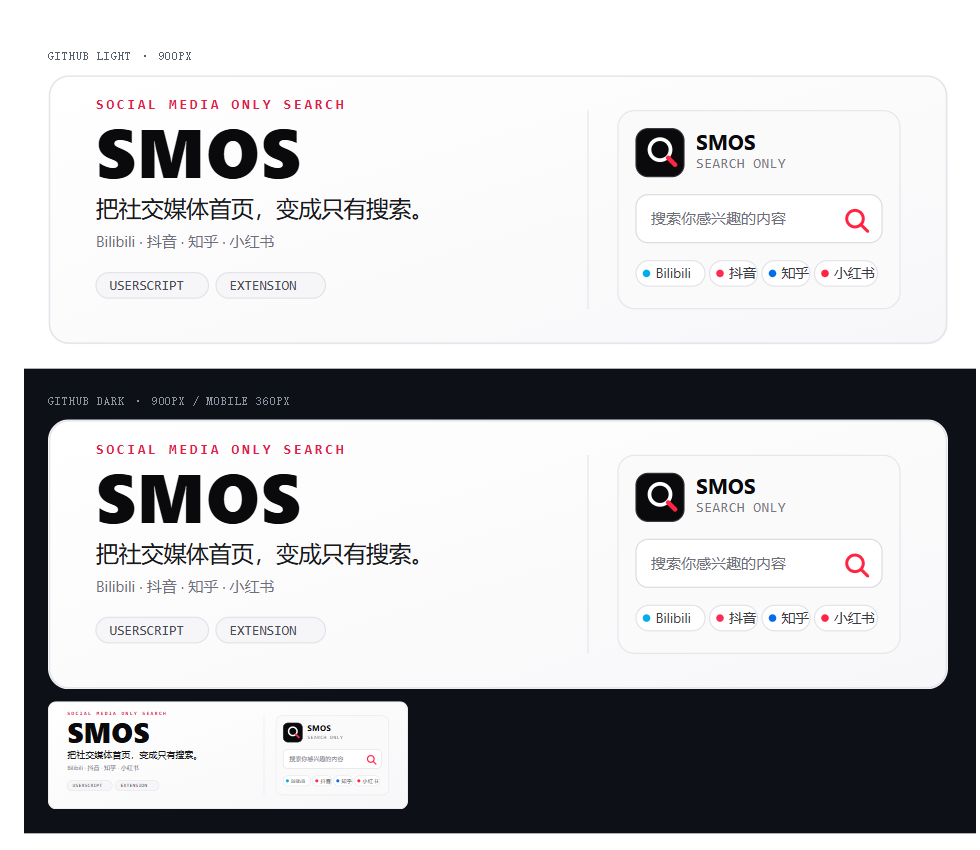
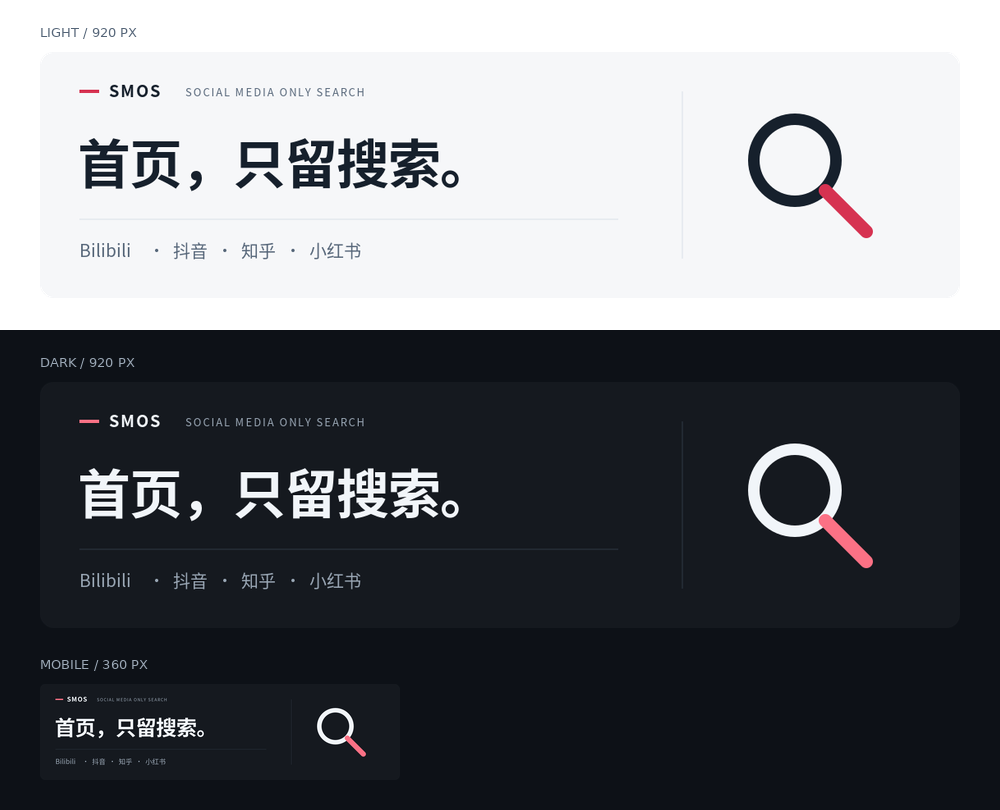
docs: 重做 README 首图与安装优先的页面排版

diff --git a/assets/readme/preview.html b/assets/readme/preview.html
@@ -22,8 +22,8 @@
   </section>
   <section class="dark">
     <p class="label">GitHub dark · 900px / mobile 360px</p>
-    <img src="hero.svg" alt="SMOS hero preview on dark background">
-    <img class="mobile" src="hero.svg" alt="SMOS hero preview at mobile width">
+    <img src="hero-dark.svg" alt="SMOS dark hero preview on dark background">
+    <img class="mobile" src="hero-dark.svg" alt="SMOS hero preview at mobile width">
   </section>
 </body>
 </html>

diff --git a/README.md b/README.md
@@ -1,98 +1,91 @@
-<p align="center">
-  <img src="./assets/readme/hero.svg" width="100%" alt="SMOS：把 Bilibili、抖音、知乎、小红书的首页变成仅搜索界面">
-</p>
+<picture>
+  <source media="(prefers-color-scheme: dark)" srcset="./assets/readme/hero-dark.svg">
+  <img src="./assets/readme/hero.svg" width="1120" alt="SMOS — 首页，只留搜索。支持 Bilibili、抖音、知乎、小红书。">
+</picture>
 
-# SMOS   
+# SMOS
 
-SMOS（Social Media Only Search）把社交媒体首页变成“仅搜索”界面，提供油猴脚本和 Manifest V3 浏览器扩展两种安装方式。
+**Social Media Only Search** · 隐藏社交媒体首页的推荐流，保留导航与搜索。提供油猴脚本和 Chrome / Edge 扩展两种安装方式。
 
-## Preview
+[安装 / Install](#安装--install) · [支持范围 / Support](#支持范围--support) · [页面预览 / Preview](#页面预览--preview) · [开发 / Development](#开发--development)
 
-以下截图来自加载 SMOS 扩展后的实际页面，点击图片可查看大图。
+## 安装 / Install
 
-<table width="100%">
+选择一种方式即可。**不要在同一网站同时启用 SMOS 扩展和油猴脚本**，以免重复注入。
+
+### 油猴脚本
+
+1. 安装 [Tampermonkey](https://www.tampermonkey.net/) 或 [Violentmonkey](https://violentmonkey.github.io/)。
+2. 打开 **[安装 SMOS 总脚本](https://raw.githubusercontent.com/mintonight/smos/main/smos.user.js)**，在脚本管理器中确认安装。
+3. 访问下方支持的页面。总脚本会按当前网站启用对应功能；平台开关在脚本管理器的菜单中。
+
+Raw 链接不可用时，可用 [jsDelivr 镜像](https://cdn.jsdelivr.net/gh/mintonight/smos/smos.user.js)（更新可能有缓存延迟）。
+
+### Chrome / Edge 扩展
+
+1. 打开 **[最新发布 / Latest release](https://github.com/mintonight/smos/releases/latest)**，下载 Assets 中的 `smos-extension-*.zip` 并解压。
+2. 打开 `chrome://extensions`（Edge 为 `edge://extensions`），开启「开发者模式」。
+3. 点击「加载已解压的扩展程序」，选择解压后的目录。点击工具栏的 SMOS 图标设置平台开关。
+
+普通安装建议使用 ZIP；Chrome 对直接安装 CRX 有限制。扩展暂未适配 Firefox。参见 [完整扩展说明](./extension/README.md)。
+
+<details>
+<summary>只需要一个平台？安装独立脚本</summary>
+
+同样需要先安装脚本管理器。不要和总脚本同时启用。
+
+| 平台 | 安装 | 备用镜像 | 说明 |
+| --- | --- | --- | --- |
+| Bilibili | [Raw](https://raw.githubusercontent.com/mintonight/smos/main/smos-bilibili/smos-bilibili.user.js) | [jsDelivr](https://cdn.jsdelivr.net/gh/mintonight/smos/smos-bilibili/smos-bilibili.user.js) | [平台说明](./smos-bilibili) |
+| 抖音 / Douyin | [Raw](https://raw.githubusercontent.com/mintonight/smos/main/smos-douyin/smos-douyin.user.js) | [jsDelivr](https://cdn.jsdelivr.net/gh/mintonight/smos/smos-douyin/smos-douyin.user.js) | [平台说明](./smos-douyin) |
+| 知乎 / Zhihu | [Raw](https://raw.githubusercontent.com/mintonight/smos/main/smos-zhihu/smos-zhihu.user.js) | [jsDelivr](https://cdn.jsdelivr.net/gh/mintonight/smos/smos-zhihu/smos-zhihu.user.js) | [平台说明](./smos-zhihu) |
+| 小红书 / Xiaohongshu | [Raw](https://raw.githubusercontent.com/mintonight/smos/main/smos-xiaohongshu/smos-xiaohongshu.user.js) | [jsDelivr](https://cdn.jsdelivr.net/gh/mintonight/smos/smos-xiaohongshu/smos-xiaohongshu.user.js) | [平台说明](./smos-xiaohongshu) |
+
+</details>
+
+## 支持范围 / Support
+
+| 平台 | 生效页面 | 页面变化 |
+| --- | --- | --- |
+| Bilibili | 首页 `/`、`/index.html`；视频、番剧等播放页¹ | 首页仅搜索；播放页可隐藏相关推荐、设置播放器模式 |
+| 抖音 / Douyin | 精选 `/jingxuan` 及其子路径；推荐首页 `/?recommend=*` | 隐藏内容流、保留搜索；目标页暂停并静音音视频 |
+| 知乎 / Zhihu | 首页 `/`、发现 `/explore`、热榜 `/hot` | 保留导航，内容区替换为搜索框 |
+| 小红书 / Xiaohongshu | 首页 `/`、探索 `/explore` | 保留导航，内容区替换为搜索框 |
+
+¹ Bilibili 播放页覆盖 `/video/*`、`/bangumi/play/*`、`/list/*`、`/medialist/play/*`、`/cheese/*`、`/festival/*`。
+
+- 搜索仍使用平台原生结果页，不替换搜索结果。
+- 抖音、知乎、小红书离开目标路由后移除搜索界面，返回时恢复；抖音的媒体限制也只在目标页生效。
+- 抖音、小红书适配亮色 / 深色主题；知乎使用浅色界面。
+- Bilibili 与抖音的自定义背景设置仅在油猴版提供，扩展版暂不支持。
+
+## 页面预览 / Preview
+
+以下为已有的扩展实测截图，并非示意图。点击查看原图；网站本身的导航可能随更新变化。
+
+<table>
   <tr>
-    <td align="center" width="50%">
-      <a href="./assets/readme/preview-bilibili.png"><img src="./assets/readme/preview-bilibili.png" alt="SMOS Bilibili 首页搜索界面" width="100%"></a>
-      <br>
-      <sub><b>Bilibili</b></sub>
-    </td>
-    <td align="center" width="50%">
-      <a href="./assets/readme/preview-douyin.png"><img src="./assets/readme/preview-douyin.png" alt="SMOS 抖音精选页搜索界面" width="100%"></a>
-      <br>
-      <sub><b>抖音</b></sub>
-    </td>
+    <td width="50%"><b>Bilibili · 首页</b><br><a href="./assets/readme/preview-bilibili.png"><img src="./assets/readme/preview-bilibili.png" alt="加载 SMOS 扩展后的 Bilibili 首页：原生顶栏下方只保留搜索框" width="100%"></a></td>
+    <td width="50%"><b>抖音 · 精选</b><br><a href="./assets/readme/preview-douyin.png"><img src="./assets/readme/preview-douyin.png" alt="加载 SMOS 扩展后的抖音精选页：保留侧栏，隐藏视频流，中央显示搜索框" width="100%"></a></td>
   </tr>
   <tr>
-    <td align="center" width="50%">
-      <a href="./assets/readme/preview-zhihu.png"><img src="./assets/readme/preview-zhihu.png" alt="SMOS 知乎热榜页搜索界面" width="100%"></a>
-      <br>
-      <sub><b>知乎</b></sub>
-    </td>
-    <td align="center" width="50%">
-      <a href="./assets/readme/preview-xiaohongshu.png"><img src="./assets/readme/preview-xiaohongshu.png" alt="SMOS 小红书探索页搜索界面" width="100%"></a>
-      <br>
-      <sub><b>小红书</b></sub>
-    </td>
+    <td width="50%"><b>知乎 · 热榜</b><br><a href="./assets/readme/preview-zhihu.png"><img src="./assets/readme/preview-zhihu.png" alt="加载 SMOS 扩展后的知乎热榜页：保留顶栏，中央显示搜索框" width="100%"></a></td>
+    <td width="50%"><b>小红书 · 探索</b><br><a href="./assets/readme/preview-xiaohongshu.png"><img src="./assets/readme/preview-xiaohongshu.png" alt="加载 SMOS 扩展后的小红书探索页：保留原生导航与搜索入口，内容区只显示居中搜索框" width="100%"></a></td>
   </tr>
 </table>
 
-## 总脚本
+## 开发 / Development
 
-推荐直接安装总脚本，它会根据当前网站自动启用对应平台功能：
-
-- [GitHub Raw 安装](https://raw.githubusercontent.com/mintonight/smos/main/smos.user.js)
-- [jsDelivr 安装](https://cdn.jsdelivr.net/gh/mintonight/smos/smos.user.js)
-
-## 浏览器扩展
-
-仓库中的 [`extension/`](./extension) 是 Manifest V3 扩展版本，可在 Chrome/Edge 中通过“加载已解压的扩展程序”安装。每次 push / PR 都会跑校验（`verify.yml`）；推送 `v*` tag（需与 `manifest.json` 版本一致）时自动构建 CRX/ZIP 并发布 GitHub Release（`release.yml`）。
-
-- 安装与开发说明：[`extension/README.md`](./extension/README.md)
-- 发布产物：GitHub Releases 中的 `.crx` 和 `.zip`
-
-## 平台目录
-
-| 平台 | 支持页面 | 脚本 |
-| --- | --- | --- |
-| Bilibili | `/`、视频/番剧等内容页 | [`smos-bilibili`](./smos-bilibili) |
-| Douyin | `/jingxuan`、`/?recommend=*` | [`smos-douyin`](./smos-douyin) |
-| Zhihu | `/`、`/explore`、`/hot` | [`smos-zhihu`](./smos-zhihu) |
-| Xiaohongshu | `/`、`/explore` | [`smos-xiaohongshu`](./smos-xiaohongshu) |
-
-## 安装单个平台（可选）
-
-先安装 [Tampermonkey](https://www.tampermonkey.net/) 或 Violentmonkey，再选择对应平台目录中的脚本：
-
-- Bilibili：[Raw](https://raw.githubusercontent.com/mintonight/smos/main/smos-bilibili/smos-bilibili.user.js) · [jsDelivr](https://cdn.jsdelivr.net/gh/mintonight/smos/smos-bilibili/smos-bilibili.user.js)
-- Douyin：[Raw](https://raw.githubusercontent.com/mintonight/smos/main/smos-douyin/smos-douyin.user.js) · [jsDelivr](https://cdn.jsdelivr.net/gh/mintonight/smos/smos-douyin/smos-douyin.user.js)
-- Zhihu：[Raw](https://raw.githubusercontent.com/mintonight/smos/main/smos-zhihu/smos-zhihu.user.js) · [jsDelivr](https://cdn.jsdelivr.net/gh/mintonight/smos/smos-zhihu/smos-zhihu.user.js)
-- Xiaohongshu：[Raw](https://raw.githubusercontent.com/mintonight/smos/main/smos-xiaohongshu/smos-xiaohongshu.user.js) · [jsDelivr](https://cdn.jsdelivr.net/gh/mintonight/smos/smos-xiaohongshu/smos-xiaohongshu.user.js)
-
-## 功能
-
-- 保留平台原生顶栏、侧栏和导航。
-- 隐藏首页推荐流，只显示可聚焦的中央搜索框。
-- 使用平台原生搜索结果页，不处理详情页。
-- Bilibili 保留播放器模式、背景设置等原有功能。
-- 油猴菜单中可分别开关 Bilibili、抖音、知乎和小红书脚本。
-- 在平台内进入专栏、关注、通知等非目标模块时自动移除搜索框，返回首页、热榜、精选等页面时自动恢复。
-- 抖音、小红书搜索框适配亮色和深色模式。
-
-## 目录
-
-每个平台目录都包含独立的油猴脚本、README 和 MIT License；扩展版本位于 `extension/`，平台内容脚本由油猴脚本生成。
-
-## 开发校验
-
-修改分平台脚本后运行：
+平台逻辑维护在 `smos-*/smos-*.user.js`，总脚本与扩展内容脚本由工具生成。修改后运行：
 
 ```bash
-npm ci            # 首次：安装开发工具（eslint、jsdom），产物本身没有运行时依赖
+npm ci            # 首次：安装开发工具；产物本身没有运行时依赖
 npm run build     # 生成 smos.user.js 的平台代码段和 extension/content/
-npm run verify    # 生成检查、语法/元数据/版本校验、lint、测试、jsdom 运行时验证
+npm run verify    # 同步、语法、版本、lint、测试与 jsdom 运行时验证
 ```
+
+[贡献与开发约定](./Agent.md) · [扩展构建与发布](./extension/README.md#构建-crx--zip) · [反馈问题](https://github.com/mintonight/smos/issues)
 
 ## License
 
-MIT
+[MIT](./LICENSE)
